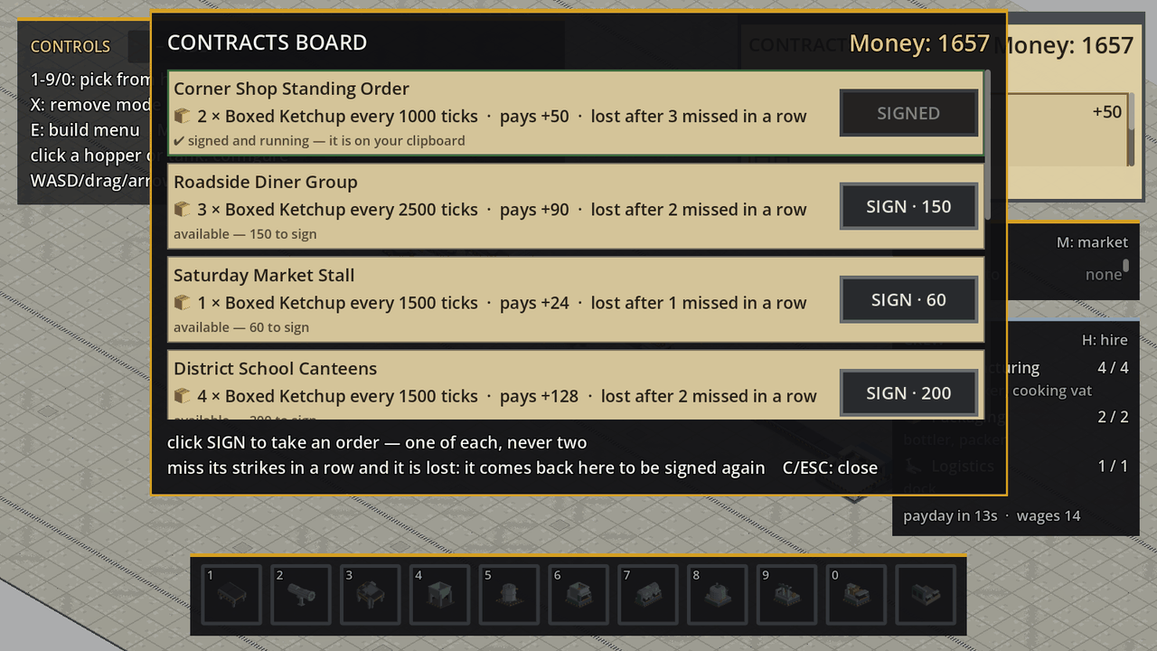
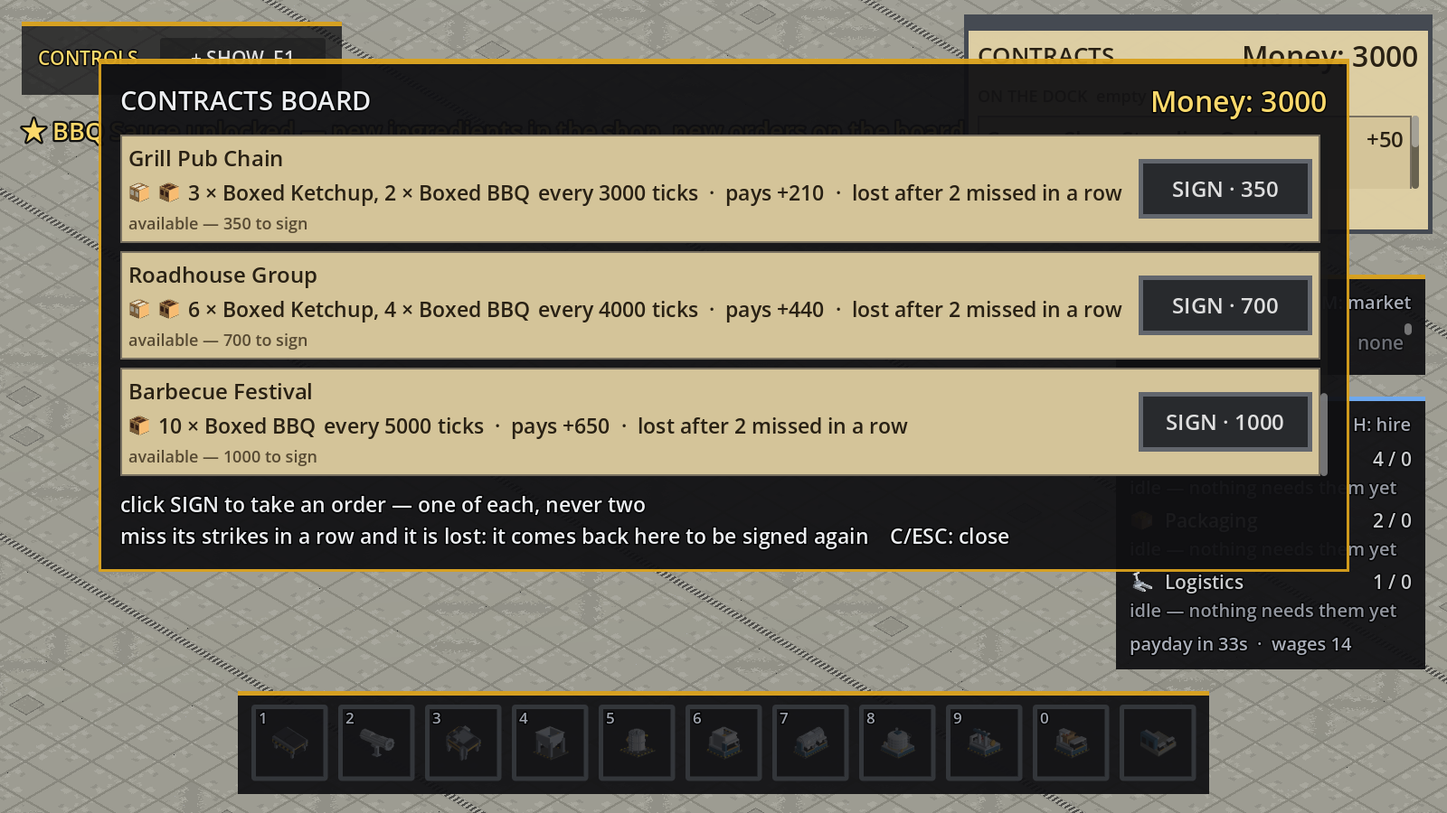
docs(readme): bring the README up to the two-sauce game and re-render every frame
The README had not moved since 2026-09-16 and still told a one-sauce story:
it said in as many words that only one sauce exists, counted the verify
script at 19 Rust suites and 30 Godot proofs, and put the shipped line's
cost at "a little over 1,000".

Every number is re-derived from data/ and sim_core/ rather than edited in
place: the line costs 959, the board holds 13 contracts of which 9 are
ungated, the market sells 6 ingredients of which 3 wait for the tenth
delivery, and the verify script is 26 Rust suites and 38 Godot proofs. The
chain section is two tables now — ketchup line and BBQ branch — because BBQ
takes finished ketchup in as a fluid and is not a second line. New prose
covers unlock gating, mothballing, the tank's destructive fluid
declaration, the harness refusing flags it cannot honour, and CI.

All fourteen gallery images are re-rendered: a shot from five days ago is a
shot of different lighting, after the glow/SSAO retune, the HUD refit, the
hopper tints and the config panel's corner. Three are new — the two-sauce
factory as the hero, a mothballed building, and a close-up of the BBQ
branch. Captions now say which world state each frame shows, since "nine
offers" is true of a new game and misleading of an unlocked one.

DEVLOG's current status gets the same treatment where it had gone stale.

diff --git a/README.md b/README.md
@@ -3,15 +3,15 @@
 # CONDIMENTAL
 
 **Condiment production, automated.** A Factorio-like factory-automation game about
-making sauce — tomatoes and sugar in one end, boxed ketchup out of the loading dock
-at the other, against standing orders that pay you for keeping them fed.
+making sauce — tomatoes and sugar in one end, boxed ketchup and boxed BBQ out of the
+loading dock at the other, against standing orders that pay you for keeping them fed.
 
 [![status: pre-alpha](https://img.shields.io/badge/status-pre--alpha-orange)](docs/DEVLOG.md)
 [![sim: Rust](https://img.shields.io/badge/simulation-Rust-b7410e)](sim_core/)
 [![engine: Godot 4.6](https://img.shields.io/badge/engine-Godot%204.6-478cbf)](godot_project/)
 [![art: voxel](https://img.shields.io/badge/art-code--generated%20voxels-8a9a5b)](assets/voxels/)
 
-![The shipped production line, running](docs/media/factory-line.png)
+![Two sauces running from one factory: the ketchup line and the BBQ branch tapped off it](docs/media/two-sauce-factory.png)
 
 </div>
 
@@ -27,20 +27,34 @@ outpace the ingredients and the wage bill.
 
 - **A real production chain, not a façade.** Tomatoes are crushed into paste, blended
   with sugar and vinegar into a liquid mix, cooked in a 2×2 vat, bottled, boxed, and
-  shipped off a loading dock — five recipes, each a stage with its own throughput.
+  shipped off a loading dock — every stage with its own throughput.
+- **Two sauces, and the second one is a *branch*.** BBQ is not a parallel factory: it
+  taps the pipe leaving the ketchup vat and takes finished ketchup as an *ingredient*,
+  along with spice mix, molasses and liquid smoke. The two sauces compete for one
+  vat's output, and the BBQ cook's 600 ticks against ketchup's 240 splits it 3 boxed
+  ketchup to 2 boxed BBQ. No new machine kind was needed — a mixer and a vat each run
+  more than one recipe now.
 - **Belts *and* pipes.** Solids ride conveyors (with corners, merges and splitters);
   the middle of the line is plumbed, because that is what a sauce plant looks like.
-  Pressure equalises along a pipe run, and the cooking vat is the one machine no belt
-  ever touches.
+  Pressure equalises along a pipe run, every run is named by the fluid it carries and
+  tinted for it, and the cooking vat is the one machine no belt ever touches.
 - **Contracts, not a spot market.** Standing orders for a quantity of goods on a
   recurring cadence, signed off a board for a price. Miss a window too many times in a
-  row and the order is *lost* — it goes back on the board to be signed again. (Orders
-  that demand a *mix* of different sauces are the design; one sauce exists so far.)
+  row and the order is *lost* — it goes back on the board to be signed again. Orders
+  that demand a **mix** of both sauces are on the board now, and a mix is
+  all-or-nothing: the reason to diversify is in front of the player rather than in a
+  design doc.
+- **Progression is a gate on the content, not a tech tree.** BBQ's three ingredients
+  and its four contracts are held back until your tenth lifetime delivery, so a new
+  game's market and board show only what a one-sauce factory can use.
 - **Staff as a capacity constraint.** Four categories (manufacturing, maintenance,
   packaging, logistics). Machines need a crew to run at all, wages come out of the
-  same money counter every payday, and an unpaid head idles before it walks.
+  same money counter every payday, and an unpaid head idles before it walks. Anything
+  that asks for a crew can be **mothballed** — switched off, off the payroll, holding
+  the batch it was part-way through — which is the way out of an unpaid spiral that
+  used to have no exit.
 - **Production statistics.** A Factorio-style production screen: what the factory made
-  and used per item over rolling windows, with per-minute rates.
+  and used per item and per fluid over rolling windows, with per-minute rates.
 - **Code-generated voxel art.** Every model in the game is emitted by a Rust generator
   from one shared palette — no hand-authored `.vox` files, no flat textures.
 - **Deterministic and saveable.** Fixed-point maths only (no `f32`/`f64`) in shared
@@ -55,38 +69,59 @@ outpace the ingredients and the wage bill.
 <td width="50%"><img src="docs/media/build-mode.png" alt="Build mode with a placement ghost"><br><sub><b>Build mode</b> — a translucent ghost, a facing, and a prompt that says <code>✔ PLACE</code> or why it will not.</sub></td>
 </tr>
 <tr>
-<td width="50%"><img src="docs/media/build-menu.png" alt="Build menu"><br><sub><b>Build menu (E)</b> — every buildable kind, its price, and the crew it will ask for.</sub></td>
-<td width="50%"><img src="docs/media/ingredient-market.png" alt="Ingredient market"><br><sub><b>Market (M)</b> — raw tomato, sugar and vinegar, bought by the crate.</sub></td>
+<td width="50%"><img src="docs/media/build-menu.png" alt="Build menu"><br><sub><b>Build menu (E)</b> — all eleven buildable kinds, each with its price and the crew it will ask for.</sub></td>
+<td width="50%"><img src="docs/media/ingredient-market.png" alt="Ingredient market"><br><sub><b>Market (M)</b> — all six raws, bought by the crate. A new game sees the first three; spice mix, molasses and liquid smoke arrive with the BBQ unlock.</sub></td>
 </tr>
 <tr>
-<td width="50%"><img src="docs/media/contracts-board.png" alt="Contracts board"><br><sub><b>Contracts board (C)</b> — nine offers, from a corner shop to an export pallet.</sub></td>
-<td width="50%"><img src="docs/media/staff-panel.png" alt="Staff panel"><br><sub><b>Staff (H)</b> — hired against asked-for, per category, with the wage bill and payday countdown.</sub></td>
+<td width="50%"><img src="docs/media/contracts-board.png" alt="Contracts board showing mixed-sauce orders"><br><sub><b>Contracts board (C)</b> — thirteen offers, from a corner shop to a barbecue festival. The mixed ones name both sauces and pay nothing until both are on the dock.</sub></td>
+<td width="50%"><img src="docs/media/staff-panel.png" alt="Staff panel"><br><sub><b>Staff (H)</b> — hired against asked-for, per category, with the machines doing the asking, the wage bill and the payday countdown.</sub></td>
 </tr>
 <tr>
-<td width="50%"><img src="docs/media/production-panel.png" alt="Production statistics panel"><br><sub><b>Production (P)</b> — made and used per item, over 5s to 1h windows or all time.</sub></td>
-<td width="50%"><img src="docs/media/closeup-crusher.png" alt="Close-up of the crusher"><br><sub><b>The crusher</b> — whole tomatoes in, pails of paste out, beside the sugar hopper.</sub></td>
+<td width="50%"><img src="docs/media/production-panel.png" alt="Production statistics panel"><br><sub><b>Production (P)</b> — made and used per item and fluid, over 5s to 1h windows or all time.</sub></td>
+<td width="50%"><img src="docs/media/mothballed.png" alt="A mothballed cooking vat's configuration panel"><br><sub><b>Mothballing</b> — click any crewed building to switch it off. It holds its part-finished batch, its crew comes off the payroll, and the wage bill falls the same tick.</sub></td>
 </tr>
 <tr>
-<td width="50%"><img src="docs/media/closeup-mixer.png" alt="Close-up of the mixer"><br><sub><b>The mixer</b> — paste and sugar in on belts, ketchup mix out into a pipe.</sub></td>
+<td width="50%"><img src="docs/media/closeup-crusher.png" alt="Close-up of the crusher"><br><sub><b>The crusher</b> — whole tomatoes in, pails of paste out, beside the sugar hopper's parallel lane.</sub></td>
+<td width="50%"><img src="docs/media/closeup-mixer.png" alt="Close-up of the mixer"><br><sub><b>The mixer</b> — paste and sugar in on two belt lanes, vinegar in by pipe, ketchup mix out into another.</sub></td>
+</tr>
+<tr>
 <td width="50%"><img src="docs/media/closeup-cooking-vat.png" alt="Close-up of the cooking vat"><br><sub><b>The cooking vat</b> — 2×2, piped in and piped out, agitator turning while it works.</sub></td>
+<td width="50%"><img src="docs/media/closeup-bbq-branch.png" alt="Close-up of the BBQ branch"><br><sub><b>The BBQ branch</b> — molasses and spice mix on the belt, liquid smoke in its own tank, and a second vat on a pipe run tinted for what it carries.</sub></td>
+</tr>
+<tr>
+<td colspan="2"><img src="docs/media/factory-line.png" alt="The single ketchup line running"><br><sub><b>The shipped line, on its own</b> — hopper to dock, before the branch is tapped off it. This is what a new game builds first.</sub></td>
 </tr>
 </table>
 
 ## The chain, as shipped
 
-Every model below is a real in-game asset, rendered straight out of the voxel pipeline:
+Every model below is a real in-game asset, rendered straight out of the voxel pipeline.
+
+**The ketchup line** — what a new game builds:
 
 <div align="center">
 
 | <img src="assets/voxels/icons/item_tomato.png" width="44"> <img src="assets/voxels/icons/item_sugar.png" width="44"> <img src="assets/voxels/icons/item_vinegar.png" width="44"> | <img src="assets/voxels/icons/machine_crusher.png" width="44"> | <img src="assets/voxels/icons/machine_mixer.png" width="44"> | <img src="assets/voxels/icons/machine_cooking_vat.png" width="44"> | <img src="assets/voxels/icons/machine_bottler.png" width="44"> | <img src="assets/voxels/icons/machine_packer.png" width="44"> | <img src="assets/voxels/icons/machine_dock.png" width="44"> |
 |:--:|:--:|:--:|:--:|:--:|:--:|:--:|
-| tomato · sugar · vinegar | **crusher**<br>4 tomato → paste | **mixer**<br>paste + sugar + 2 vinegar → mix | **cooking vat**<br>mix → ketchup<br>*(240 ticks)* | **bottler**<br>ketchup → bottle | **packer**<br>bottle → box | **dock**<br>ships every tick |
+| tomato · sugar · vinegar | **crusher**<br>4 tomato → paste<br>*80t* | **mixer**<br>paste + sugar + 2 vinegar → mix<br>*90t* | **cooking vat**<br>mix → ketchup<br>*240t* | **bottler**<br>ketchup → bottle<br>*60t* | **packer**<br>bottle → box<br>*40t* | **dock**<br>ships every tick |
+
+</div>
+
+**The BBQ branch** — unlocked on your tenth delivery, tapped off the pipe leaving the
+ketchup vat, and running on a second mixer, vat, bottler and packer:
+
+<div align="center">
+
+| <img src="assets/voxels/icons/item_spice_mix.png" width="44"> <img src="assets/voxels/icons/item_molasses.png" width="44"> <img src="assets/voxels/icons/item_liquid_smoke.png" width="44"> | <img src="assets/voxels/icons/machine_mixer.png" width="44"> | <img src="assets/voxels/icons/machine_cooking_vat.png" width="44"> | <img src="assets/voxels/icons/machine_bottler.png" width="44"> | <img src="assets/voxels/icons/machine_packer.png" width="44"> |
+|:--:|:--:|:--:|:--:|:--:|
+| spice mix · molasses · liquid smoke | **mixer**<br>ketchup + spice mix + molasses → BBQ mix<br>*90t* | **cooking vat**<br>BBQ mix + liquid smoke → BBQ<br>*600t* | **bottler**<br>BBQ → bottle<br>*60t* | **packer**<br>bottle → box<br>*40t* |
 
 </div>
 
 Nothing above is hardcoded. Recipes, machine footprints, crews, prices, ingredients,
-contracts and staff categories are all data in [`data/*.ron`](data/) — a new sauce is a
-content change, never a code change.
+contracts, unlock gates and staff categories are all data in [`data/*.ron`](data/) —
+BBQ was added as a content change with no behaviour change in `sim_core/src/`, and the
+next sauce is meant to go the same way.
 
 ## Install and play
 
@@ -118,8 +153,9 @@ cargo xtask
 ```
 
 `cargo xtask` is the whole build. It compiles `sim_core`, copies the compiled library
-into `godot_project/bin/` where `sim_core.gdextension` expects it, stages the voxel
-models and UI icons into `godot_project/voxels/`, and then runs Godot's asset importer
+into `godot_project/bin/` where `sim_core.gdextension` expects it (ad-hoc re-signing it
+on macOS, which the OS requires after the file is replaced), stages the voxel models
+and UI icons into `godot_project/voxels/`, and then runs Godot's asset importer
 **twice** (the `.vox` importer is an editor plugin that only registers on the pass after
 the first scan — one pass leaves you with an invisible world).
 
@@ -144,7 +180,9 @@ scripts/make-demo-saves.sh
 
 Saves live in Godot's per-user data directory, not in the repo (on macOS:
 `~/Library/Application Support/Godot/app_userdata/CONDIMENTAL/saves`). The running
-game prints the resolved path once at startup.
+game prints the resolved path once at startup. The save schema is at version 2 and an
+older save is **refused by number rather than migrated**, so re-run that script after
+pulling a schema bump.
 
 ### 4. Check it works (optional)
 
@@ -152,13 +190,19 @@ game prints the resolved path once at startup.
 scripts/verify-core-loop.sh
 ```
 
-19 Rust test suites and 32 headless Godot proofs, including the real `gdext` JSON
-boundary, save/load round trips and the interactive scene's input path. For a picture
-instead of a pass/fail:
+26 Rust test suites and 38 headless Godot proofs, including the real `gdext` JSON
+boundary, save/load round trips, the second sauce running as a branch off the first,
+and the interactive scene's input path. For a picture instead of a pass/fail:
 
 ```bash
 scripts/screenshot-scene.sh out.png 1600x900 --fixture chain --populate
 ```
+
+The screenshot harness refuses a flag it cannot honour and a fixture it cannot build,
+rather than quietly handing back a frame of something else — `--bbq` photographs the
+branch, `--unlocked` puts the world past every progression gate, and `--closeup X,Y,S`
+aims at one tile. `scripts/asset-browser.sh` spins every voxel model on its own, lit
+the way the game lights it.
 
 <details>
 <summary><b>Troubleshooting</b></summary>
@@ -166,6 +210,8 @@ scripts/screenshot-scene.sh out.png 1600x900 --fixture chain --populate
 - **The world is empty and no machines appear in a demo save.** The asset import did
   not complete. Run `godot --headless --path godot_project --import` twice, or just
   `cargo xtask` again.
+- **A demo save will not load at all.** It was written against an older save schema;
+  re-run `scripts/make-demo-saves.sh`.
 - **`cargo: command not found`.** `~/.cargo/env` is not sourced in this shell; open a
   new terminal after installing rustup.
 - **`git status` shows `godot_project/project.godot` modified after you ran the game.**
@@ -184,27 +230,32 @@ scripts/screenshot-scene.sh out.png 1600x900 --fixture chain --populate
 | Key | Does |
 |---|---|
 | `1`–`9`, `0` | Pick that hotbar slot up — puts one in your hand, ready to place |
-| left click | Place what is in your hand (or click a hopper/tank to configure it) |
+| left click | Place what is in your hand, or click a placed building to configure it |
 | `R` | Rotate — the ghost while placing, or whatever is under the cursor |
 | `X` | Remove mode — click to pick a placed tile back up into your inventory |
 | `SHIFT` while placing | Buy a replacement as each one goes down |
 | `E` | Build menu — buy belts, pipes, machines, buildings |
-| `M` | Ingredient market — buy raw tomato, sugar, vinegar |
+| `M` | Ingredient market — buy raw ingredients by the crate |
 | `C` | Contracts board — sign orders, re-sign lost ones |
 | `H` | Staff — hire and fire per category |
 | `P` | Production statistics |
 | `F1` | Fold the on-screen keybind legend away |
 | `TAB` | Swap between the isometric view and a first-person walk-through |
 | `WASD` / drag / arrows, scroll / `+` `-` | Pan and zoom (isometric); move and look (first person) |
-| hover a machine | Its recipe, buffers, crew, and whether it is working, starved or blocked |
+| hover a machine | Its recipe, buffers, crew, and whether it is working, starved, blocked, uncrewed or switched off |
 | `ESC` | Close what is open — else the pause menu (save, sound, music, quit) |
+
+Configuring is a click, not a keybind: a **hopper** gets a picker for which solid it
+meters onto the belt, a **fluid tank** gets one for which raw fluid it holds (and says
+whether that name was read off the pipe run or stated by you), both get **FILL** and an
+**AUTO-FILL** switch, and anything that asks for a crew gets a **mothball** switch.
 
 ### Your first factory
 
-1. **Buy the line.** Press `E`. The shipped five-stage chain — hopper, belts, crusher,
-   a second hopper for sugar, mixer, fluid tank, pipes, cooking vat, bottler, packer,
-   dock — costs a little over 1,000, so a new game can afford all of it outright with
-   change to spare for ingredients.
+1. **Buy the line.** Press `E`. The shipped chain — hopper, belts, crusher, a second
+   hopper for sugar, mixer, fluid tank, pipes, cooking vat, bottler, packer, dock —
+   comes to about 960, so a new game can afford all of it outright with change to
+   spare for ingredients.
 2. **Lay it out.** Pick a slot with a number key and click to place. Two rules decide
    whether things connect: **a belt carries toward the way it faces**, and **a machine
    takes input on the face opposite the way it points and discharges out the face it
@@ -214,13 +265,14 @@ scripts/screenshot-scene.sh out.png 1600x900 --fixture chain --populate
    from mixer → cooking vat → bottler. Vinegar comes from a fluid tank into the mixer
    the same way. The bottler is where the product becomes solid again.
 4. **Buy stock and feed it.** Press `M`, buy tomato, sugar and vinegar (`SHIFT`+click
-   buys everything you can afford). Then **click** a hopper or a tank: its panel has
-   **FILL**, an **AUTO-FILL** switch that keeps it topped up from bought stock every
-   tick, and — for a hopper — a picker for which ingredient it meters onto the belt.
-5. **Sign orders.** Press `C`. A new game runs one starter order; the board has eight
-   more, each with a price to sign, a quantity, a cadence and a number of strikes. The
-   clipboard in the corner tracks every signed order: checklist, payout, countdown,
-   and whether it is `✔ READY`, `⚠ AT RISK` or `⚠ LAST CHANCE`.
+   buys everything you can afford). Then **click** a hopper or a tank to fill it, set
+   it to auto-fill from bought stock every tick, and tell it what it holds. Retargeting
+   is destructive — it empties the hopper, and a tank also purges every pipe run it
+   feeds — so the picker names the total it is about to destroy before it does it.
+5. **Sign orders.** Press `C`. A new game runs one starter order and the board offers
+   eight more, each with a price to sign, a quantity, a cadence and a number of
+   strikes. The clipboard in the corner tracks every signed order: checklist, payout,
+   countdown, and whether it is `✔ READY`, `⚠ AT RISK` or `⚠ LAST CHANCE`.
 6. **Watch the money.** The dock ships finished boxes into a shared delivery pool
    automatically — one box pays one contract, never two, and the pool caps at 48 per
    item, at which point the dock refuses deliveries and the belt backs up. Ingredients
@@ -229,21 +281,30 @@ scripts/screenshot-scene.sh out.png 1600x900 --fixture chain --populate
 7. **Mind the crew.** Press `H`. Every machine you place adds to what a category asks
    for, whether or not it is running; wages are paid every 1,000 ticks (about 33
    seconds at the 30 Hz tick). A payday you cannot cover idles heads for a period, and
-   they leave if the next payday is short too.
-8. **Find the bottleneck.** Hover any machine for `working` / `starved` / `blocked`,
-   a busy percentage and the reason it is waiting — or press `P` for the whole
-   factory's throughput. The cooking vat's 240-tick cycle is the longest stage on the
-   shipped line, so that is where a single line backs up first.
+   they leave if the next payday is short too. If the bill is the problem, **click a
+   building and mothball it** — it stops asking for crew immediately, holds whatever
+   it was mid-batch, and picks up where it stopped when you switch it back on.
+8. **Find the bottleneck.** Hover any machine for `working` / `starved` / `blocked`, a
+   busy percentage and the reason it is waiting — the load bar's *fill* is the
+   quantity and its *border* is the state, so an uncrewed machine still reads as one.
+   Press `P` for the whole factory's throughput. The cooking vat's 240-tick cycle is
+   the longest stage on the ketchup line, so that is where it backs up first.
+9. **Open the second sauce.** Your tenth delivery unlocks BBQ: three new raws in the
+   market, four new orders on the board, two of which want both sauces at once. Tap a
+   pipe off the run leaving the ketchup vat and feed a second mixer — BBQ eats finished
+   *ketchup*, so the branch is a decision about how to split one vat's output, not a
+   second factory bolted on beside the first.
 
 ## Under the hood
 
 ```
-data/           content: recipes, machines, ingredients, shop, contracts, staff
+data/           content: recipes, machines, ingredients, shop, contracts, unlocks, staff
 sim_core/       the Rust simulation (src/sim/ is pure, src/lib.rs is the gdext edge)
 godot_project/  the Godot 4 presentation layer
 assets/voxels/  voxel asset pipeline — generators are the source, models/ is output
 xtask/          `cargo xtask`: build sim_core, stage the library and models for Godot
-scripts/        verification, voxel build, screenshot review
+scripts/        verification, voxel build, screenshot review, asset browser
+tools/          dev tools that are not part of the game (asset-browser/, legibility/)
 docs/           design docs and history
 ```
 
@@ -284,7 +345,12 @@ that starts every session with no memory of the last one:
 - **Verification is headless and deterministic**, so an agent can prove its work
   without a human watching a screen — one script runs the Rust suites and every Godot
   proof through the real interop boundary. The one check that cannot be headless
-  (*does it look right?*) is a scripted render the agent has to open and read.
+  (*does it look right?*) is a scripted render the agent has to open and read, and that
+  harness is built to **refuse** rather than hand back a frame of the wrong thing.
+- **CI runs the checks a session might skip.** Workflows under `.github/workflows/`
+  cover the Rust and voxel-generator tests, a fmt/clippy ratchet whose baseline is now
+  zero, the project's own grep-able rules, `shellcheck`/`actionlint`, a `cargo audit`,
+  and the full Godot gate nightly or on demand.
 - **Every pull request shows the change in a screenshot.** A local hook and a CI job
   both refuse a PR body without an image.
 - **[Conventional Commits](https://www.conventionalcommits.org/)**, enforced by a
@@ -306,7 +372,9 @@ Milestones 1–7 are done: the scaffold, a mobile export spike, the core loop, a
 multi-stage chain, the economy, fluids and timed processes — plus the epics that made
 it a game rather than a demo (shop and inventory, real placement, splitters, the piped
 chain rework, the delivery dock, contracts as data, the staff pool, production
-statistics, save/load, and a music and sound pass).
+statistics, save/load, and a music and sound pass). **BBQ shipped as the second sauce**,
+which proved the thing it was built to prove: a sauce is content, and a branching chain,
+a gated unlock and a mixed order all work without new Rust.
 
 **Next, roughly in order:**
 
@@ -315,7 +383,7 @@ statistics, save/load, and a music and sound pass).
 | **Scale-up** (milestone 8) | Power as a network, a tiered update scheduler, chunk activity tracking; stress-tested into the thousands of entities |
 | **Logistics expansion** (milestone 9) | Transport between factory sites |
 | **Platform polish** (milestone 10) | Mobile touch controls and export, packaging, a full UI pass |
-| **More sauce** (content) | BBQ (a long slow-cook stage), mayo (refrigeration and a cold chain), hot sauce (acid-resistant equipment, fermentation), then aged and derived sauces — chilli mayo needs mayo *and* hot sauce, so the sauce list becomes a dependency tree |
+| **More sauce** (content) | Mayo (refrigeration and a cold chain), hot sauce (acid-resistant equipment, fermentation), then aged and derived sauces — chilli mayo needs mayo *and* hot sauce, so the sauce list becomes a dependency tree rather than a list |
 | **Multiplayer** (stretch) | Designed for in the architecture, deliberately deferred |
 
 The current open backlog is [GitHub issues](https://github.com/TomWhitticase/condimental/issues);

diff --git a/docs/DEVLOG.md b/docs/DEVLOG.md
@@ -22,17 +22,19 @@ below is history and should only ever be appended to.)*
   finished but unmerged — contract board, payout juice + audio, machine
   animations, floor redesign, vinegar assets, belt-arrow removal — were
   consolidated onto one integration branch and fast-forwarded into `main`.
-  The union passes `scripts/verify-core-loop.sh` (19 Rust suites, 30 headless
-  Godot proofs, no failures) and has been rendered and played. A fresh
+  The union passed `scripts/verify-core-loop.sh` (19 Rust suites, 30 headless
+  Godot proofs, no failures) and has been rendered and played; the same script
+  is **26 Rust suites and 38 Godot proofs as of 2026-09-21**. A fresh
   worktree still needs `cargo xtask` and **two** `godot --import` passes
   before the world is visible. See the log entry below.
-- **CI runs the tests now (2026-09-16).** Seven workflows under
+- **CI runs the tests now (2026-09-16).** Nine workflows under
   `.github/workflows/`: `rust.yml` (sim_core + voxgen tests, `cargo xtask`,
   a fmt/clippy ratchet, and a check that `assets/voxels/models` still matches
   its generators), `invariants.yml` (the CLAUDE.md rules that can be grepped
   for, `shellcheck`, `actionlint`), the two older lint/screenshot backstops,
   `verify.yml` (the full Godot gate — nightly, on demand, or on a PR labelled
-  `full-verify`), `audit.yml`, and `claude.yml`/`claude-review.yml` (dormant
+  `full-verify`), `audit.yml`, `labeler.yml`, and
+  `claude.yml`/`claude-review.yml` (dormant
   until an `ANTHROPIC_API_KEY` secret exists). `docs/WORKFLOW.md`,
   "What CI runs", is the table. See the log entry below.
 - **There are two sauces (2026-09-18).** `data/recipes.ron` forks: ketchup
@@ -41,8 +43,10 @@ below is history and should only ever be appended to.)*
   machine kind — a BBQ line is a *branch* tapped off the pipe leaving the
   ketchup vat, so the two sauces compete for one vat's output, and the 600-tick
   BBQ cook against the vat's 240 splits it 3 ketchup to 2 BBQ. Two of the four
-  new contracts name both sauces. BBQ is ungated so far; the unlock ladder is
-  the next ticket. See the log entry below.
+  new contracts name both sauces. **BBQ is gated now (2026-09-19):**
+  `data/unlocks.ron` holds its three ingredients and four contracts back until
+  the tenth lifetime delivery, so a new game's market and board show only what
+  a one-sauce factory can use. See the log entries below.
 - **The lighting post-passes mean something now (2026-09-20).** Glow is
   `1.0 / 0.0 / 1.2 / SCREEN` and SSAO is `0.45 / 16.0 / 1.6`
   (`factory_environment.gd`). Both sets of old numbers were chosen where they
@@ -184,6 +188,27 @@ below is history and should only ever be appended to.)*
 
 ## Log
 
+### 2026-09-21 — The README catches up with the second sauce, and every frame in it is fresh
+
+The README had not moved since 2026-09-16 and was describing a one-sauce
+game: it said in as many words that only one sauce existed, counted the
+verify script at 19 Rust suites and 30 Godot proofs, and its gallery
+pre-dated the glow/SSAO retune, the HUD refit, the hopper tints and the
+config panel's corner. Every claim in it has now been re-derived from
+`data/` and `sim_core/` rather than edited in place — the shipped line's
+cost is 959, not "a little over 1,000"; the board holds 13 contracts of
+which 9 are ungated; the market sells 6 ingredients of which 3 wait for the
+tenth delivery. The chain section is two tables now, because BBQ is a
+branch off the ketchup line and not a second line, and a table that pretends
+otherwise is the wrong shape regardless of the words in it.
+
+All fourteen gallery images were re-rendered rather than kept: a screenshot
+of a build from five days ago is a screenshot of a different game's
+lighting. Three are new — the two-sauce factory that is now the hero shot,
+a mothballed building standing its crew down, and a close-up of the BBQ
+branch taking finished ketchup in as a fluid. The captions say which world
+state each frame shows, since "nine offers" and "three ingredients" are
+true of a new game and misleading of an unlocked one.
 ### 2026-09-21 — A jammed belt's rubber stands still with the items on it (issue #79)
 
 UI_UX.md §6a's rule — a continuous effect is driven by the thing's own work
